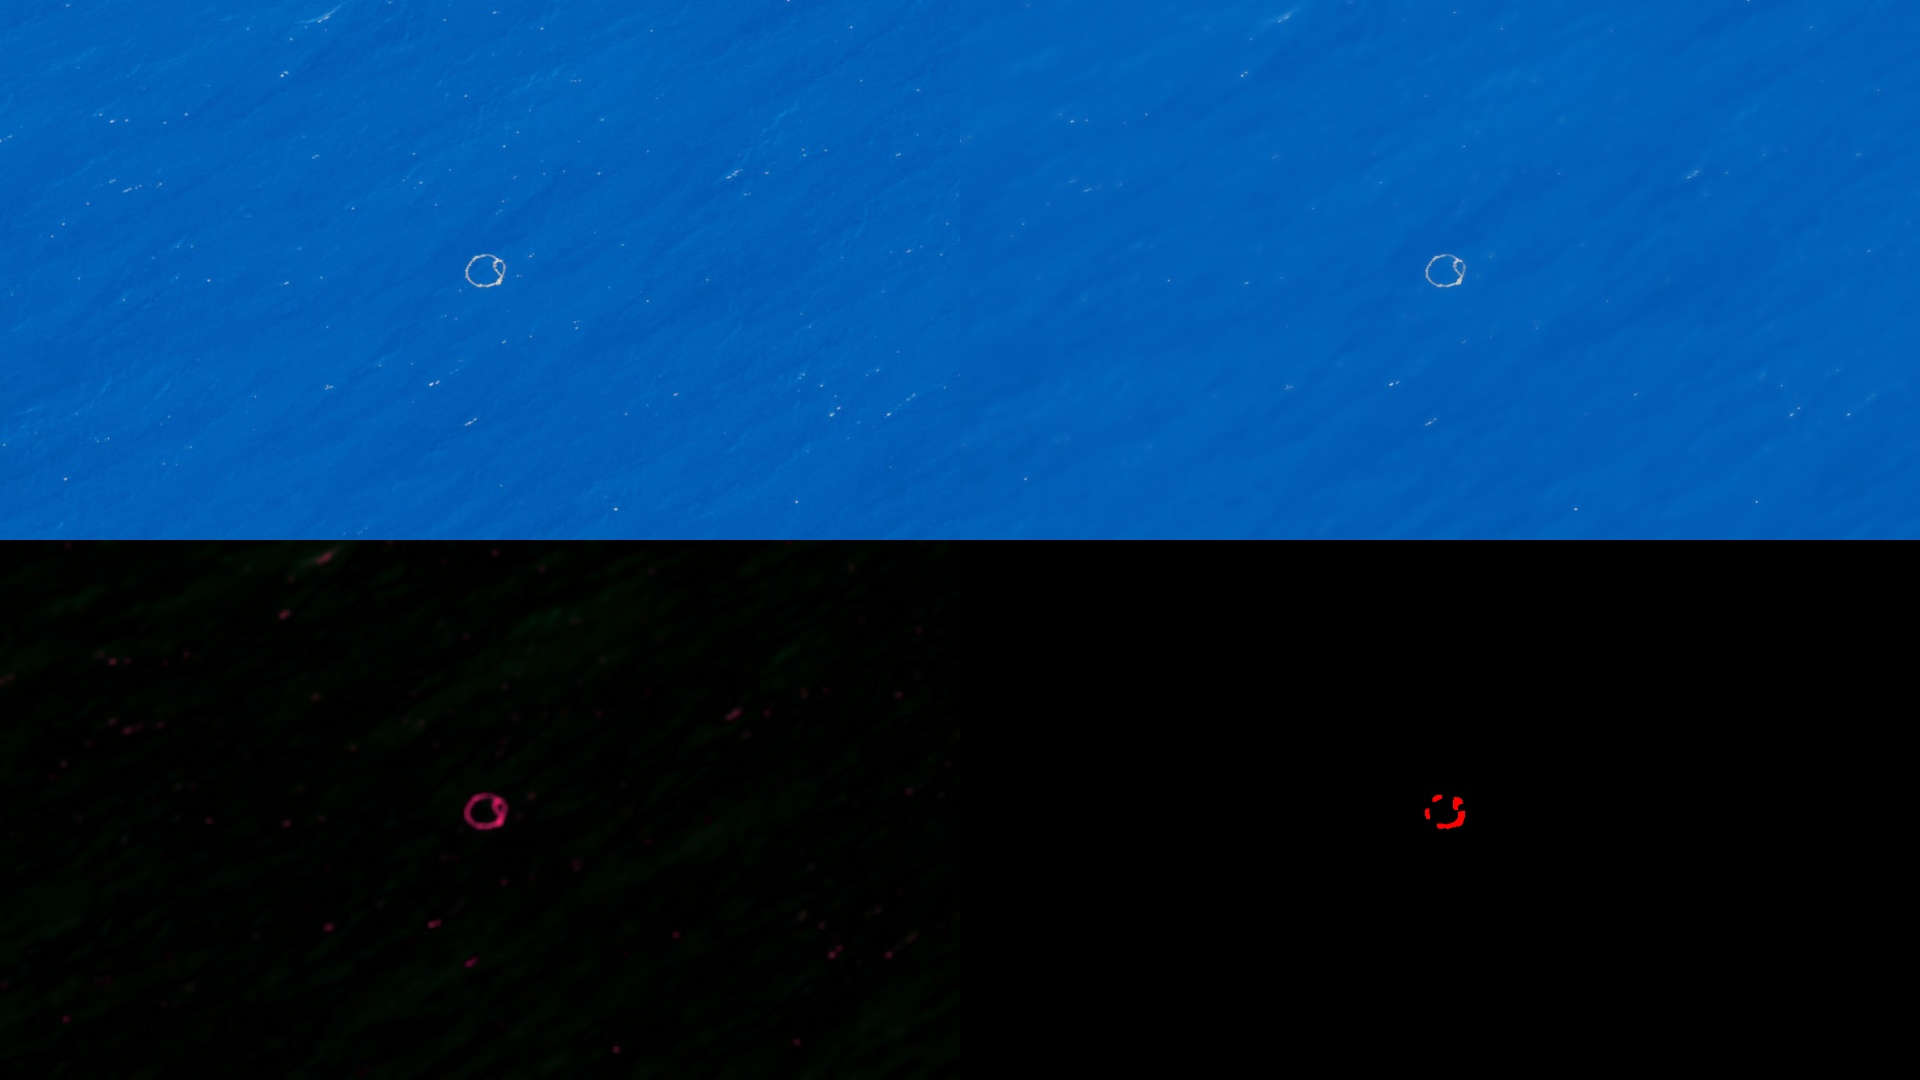
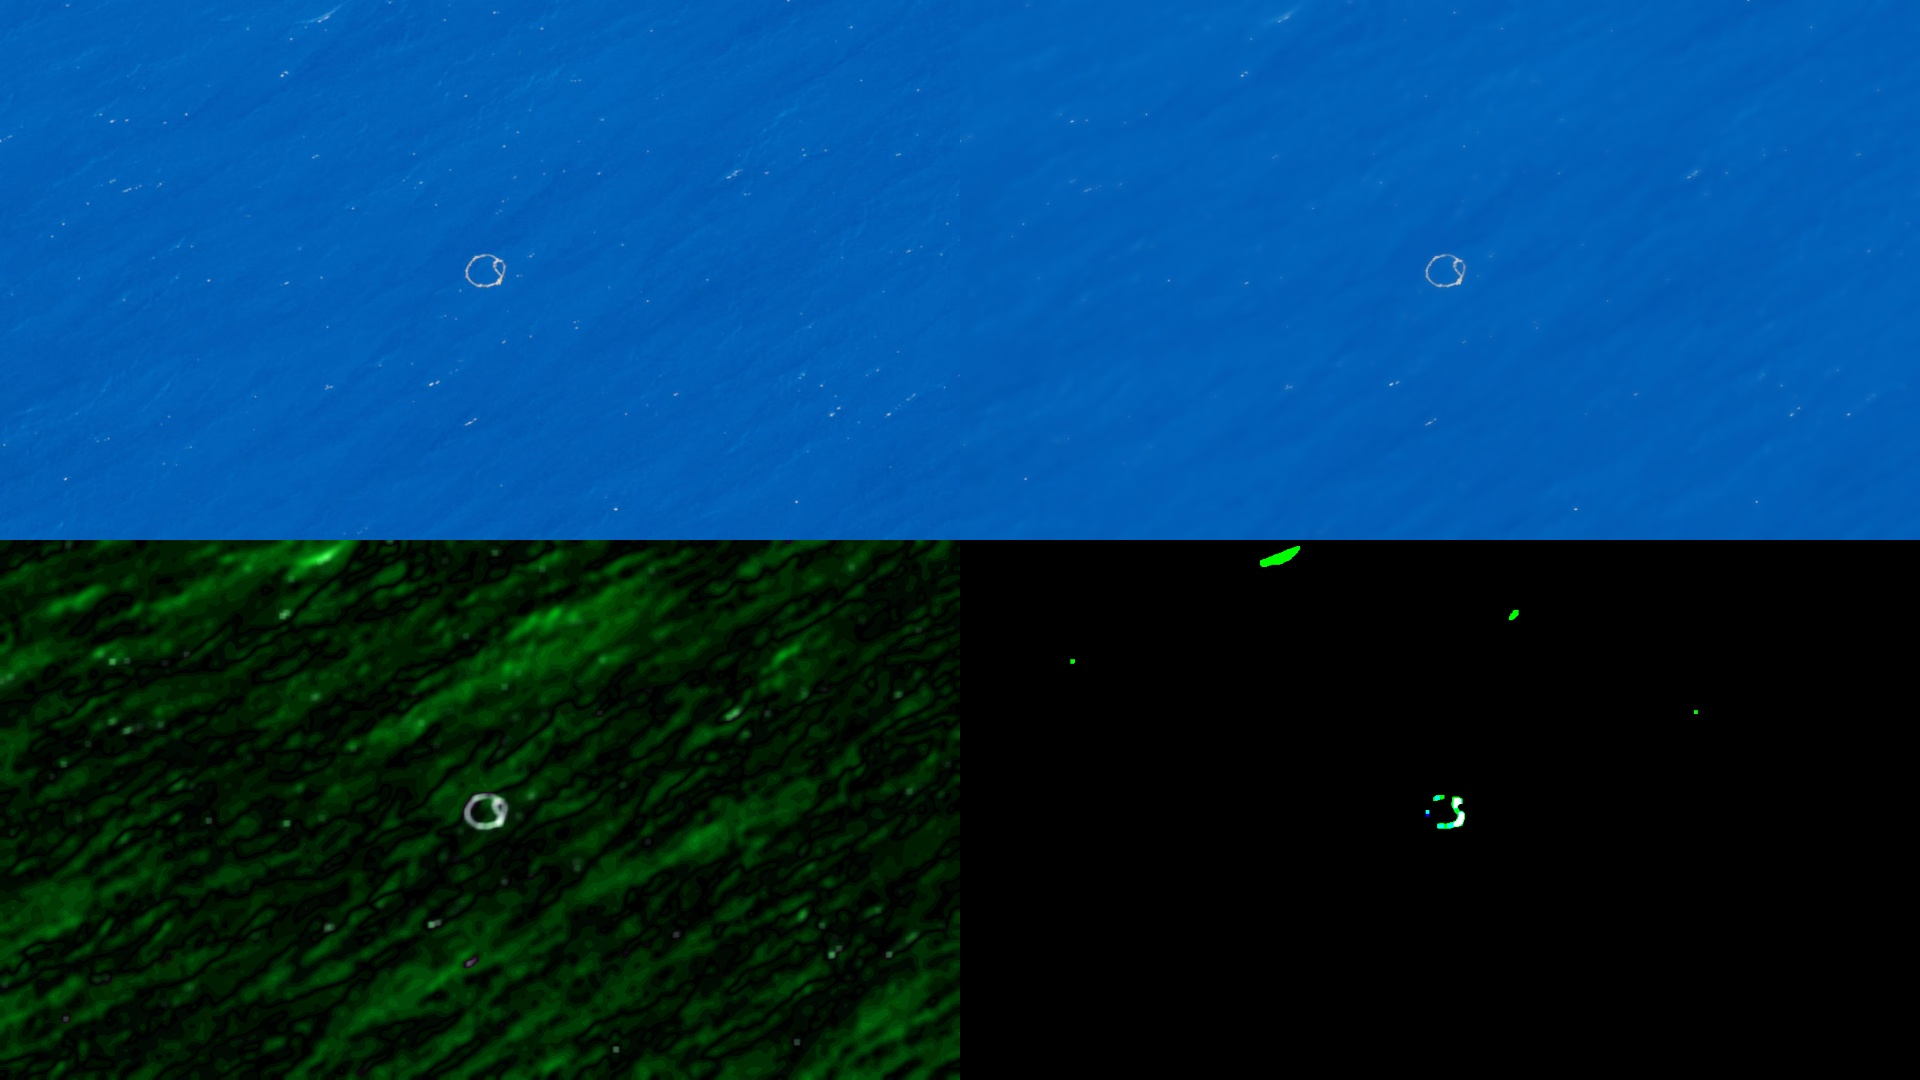
Even more color detection progress

Changed region(s): [[0.0, 0.4889, 0.5, 1.0], [0.75, 0.7333, 0.7812, 0.7639], [0.6562, 0.4889, 0.6875, 0.5194]]

diff --git a/OpenCV Saliency Detection Testing/pure_color_detection.py b/OpenCV Saliency Detection Testing/pure_color_detection.py
@@ -18,7 +18,7 @@ con_wi = 1920
 
 ## Preprocessing variables
 blur_str = 0.015
-color_filter_lower_thresh = 100
+color_filter_lower_thresh = 130
 
 ## Preprocessing options
 downsize                = 1
@@ -76,12 +76,6 @@ for i in range(0,len(images)):
     for c in range(3):
         col_filtd[:,:,c] = col_filtd[:,:,c] / (1.0/255.0 + col_filtd[:,:,0] + col_filtd[:,:,1] + col_filtd[:,:,2]) # Normalize colors
     
-    # Normalize brightness
-    for c in range(3):
-        print("Max in channel c: ", np.max(col_filtd[:,:,c]))
-        col_filtd[:,:,c] = (col_filtd[:,:,c]/np.max(col_filtd[:,:,c]))
-        print("Max in channel c: ", np.max(col_filtd[:,:,c]))
-
     # Compute channel-wise averages
     avg_color_per_row = np.average(col_filtd, axis=0)
     avg_color = (np.average(avg_color_per_row, axis=0))#*255).astype(int)
@@ -91,6 +85,22 @@ for i in range(0,len(images)):
     color_deviancy = np.zeros(col_filtd.shape)
     for c in range(0,3):
         color_deviancy[:,:,c] = np.absolute(col_filtd[:,:,c] - avg_color[c])
+    #-- Some image info
+    """
+    avg_color_per_row = np.average(color_deviancy, axis=0)
+    avg_color = (np.average(avg_color_per_row, axis=0))
+    channel_maxes = np.array([np.max(color_deviancy[:,:,0]),np.max(color_deviancy[:,:,1]),np.max(color_deviancy[:,:,2])])
+    print("Color deviancy stats:\n   Average values: ", avg_color, "\n   Max values: ", channel_maxes)
+    
+    spectrum_canditates = np.argsort(channel_maxes)
+    print("   Sorted channel max indices: ", spectrum_canditates)
+    color_deviancy[:,:, spectrum_canditates[0]] = color_deviancy[:,:, spectrum_canditates[0]]/2.0
+    color_deviancy[:,:, spectrum_canditates[1]] = color_deviancy[:,:, spectrum_canditates[1]]/1.5
+    #--"""
+        # Normalize brightness
+    for c in range(3):
+        color_deviancy[:,:,c] = (color_deviancy[:,:,c]/np.max(color_deviancy[:,:,c]))
+
     color_deviancy = (color_deviancy*255).astype(np.ubyte)  # Convert result to image-readable format
 
     # Threshold values
@@ -109,6 +119,7 @@ for i in range(0,len(images)):
             contours[i] = np.squeeze(contours[i], axis=1)
             centroids[:,i] = np.mean(contours[i], axis=0)
     """
+    #threshed_detections = cv2.cvtColor(threshed_detections, cv2.COLOR_GRAY2BGR)
     
     
     ## Image post-processing
@@ -123,7 +134,7 @@ for i in range(0,len(images)):
     # Timings
     end_time = time.time()
     proc_time = round(end_time - start_time, 3)
-    print('Processing time: ', proc_time, ' [s]')
+    print('Processing time: ', proc_time, ' [s]\n')
 
     # Save outputs
     im_name_conc = str ('concatd_' + onlyfiles[i])
